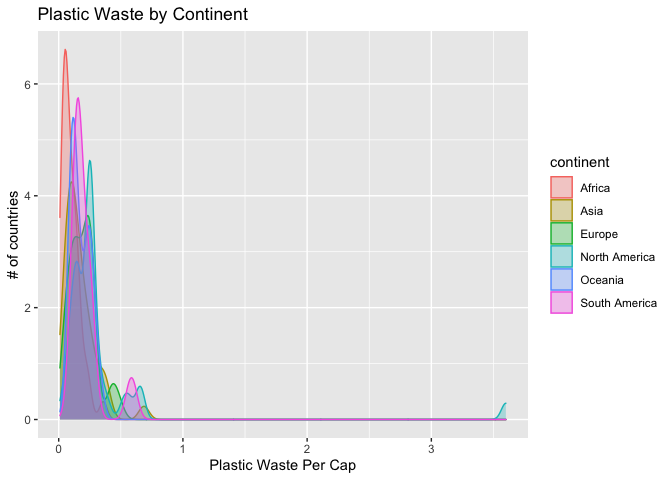
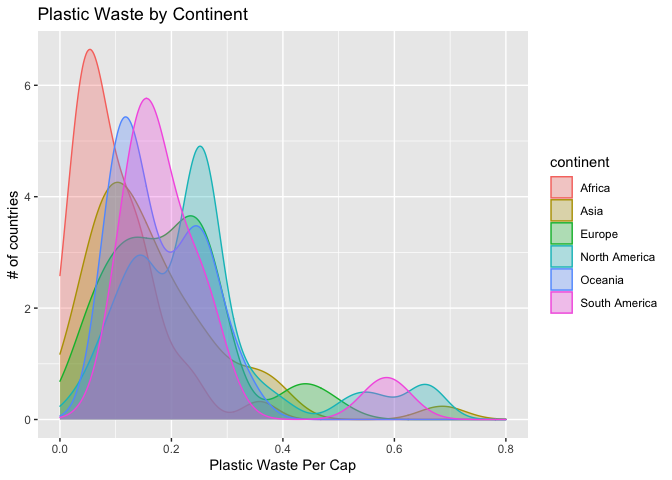
Lab 2 completed

diff --git a/lab-02.md b/lab-02.md
@@ -36,11 +36,11 @@ ggplot(data = plastic_waste, mapping = aes(x = plastic_waste_per_cap, color = co
 ggplot(data = plastic_waste, 
        mapping = aes(x = plastic_waste_per_cap, 
                      color = continent, 
-                     fill = continent)) +
+                     fill = continent)) + xlim(0, .8) +
   geom_density(alpha = 0.3) + labs(x = "Plastic Waste Per Cap", y = "# of countries", title = "Plastic Waste by Continent")
 ```
 
-    ## Warning: Removed 51 rows containing non-finite values (stat_density).
+    ## Warning: Removed 52 rows containing non-finite values (stat_density).
 
 ![](lab-02_files/figure-gfm/plastic-waste-density-1.png)<!-- -->
 
@@ -104,10 +104,10 @@ ggplot(data = plastic_waste, mapping = aes(x = plastic_waste_per_cap, y = total_
 ![](lab-02_files/figure-gfm/plastic-waste-population-total-1.png)<!-- -->
 
 ``` r
-ggplot(data = plastic_waste, mapping = aes(x = plastic_waste_per_cap, y = coastal_pop, color = continent, shape = continent)) + geom_point() + scale_color_viridis_d() + labs(x = "Plastic Waste Per Cap", y = "Total Population", title = "Plastic Waste x Coastal Population")
+ggplot(data = plastic_waste, mapping = aes(x = plastic_waste_per_cap, y = coastal_pop, color = continent, shape = continent)) + xlim(0, .8) + geom_point() + scale_color_viridis_d() + labs(x = "Plastic Waste Per Cap", y = "Total Population", title = "Plastic Waste x Coastal Population")
 ```
 
-    ## Warning: Removed 51 rows containing missing values (geom_point).
+    ## Warning: Removed 52 rows containing missing values (geom_point).
 
 ![](lab-02_files/figure-gfm/plastic-waste-population-coastal-1.png)<!-- -->
 
@@ -116,8 +116,26 @@ ggplot(data = plastic_waste, mapping = aes(x = plastic_waste_per_cap, y = coasta
 Remove this text, and add your answer for Exercise 8 here.
 
 ``` r
-# insert code here
+ggplot(data = plastic_waste)+
+  geom_point(mapping = aes(x = coastal_pop/total_pop,
+                     y =  plastic_waste_per_cap,
+                     color = continent)) +
+    geom_smooth(mapping = aes(x = coastal_pop/total_pop,
+                              y = plastic_waste_per_cap))+
+  ylim(0, 0.8) +
+  labs(title = "Plastic waste x coastal/total pop.",
+       x = "Coastal/total pop.)",
+       y = "Plastic waste per capita",
+       color = "Continent")
 ```
+
+    ## `geom_smooth()` using method = 'loess' and formula 'y ~ x'
+
+    ## Warning: Removed 62 rows containing non-finite values (stat_smooth).
+
+    ## Warning: Removed 62 rows containing missing values (geom_point).
+
+![](lab-02_files/figure-gfm/recreate-viz-1.png)<!-- -->
 
 ## Pro-Tips
 
